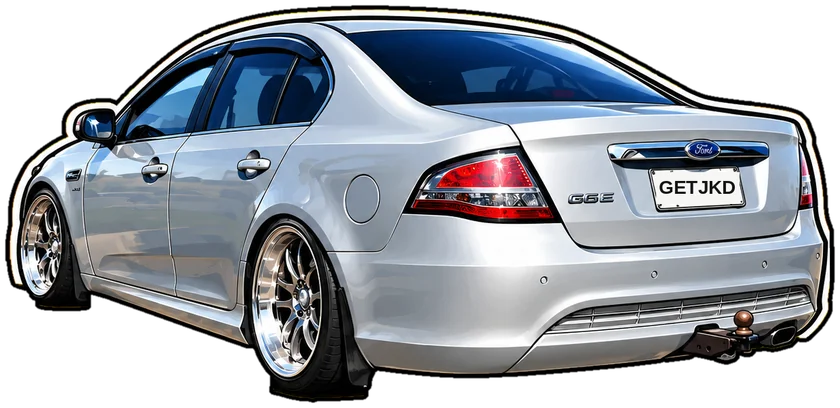
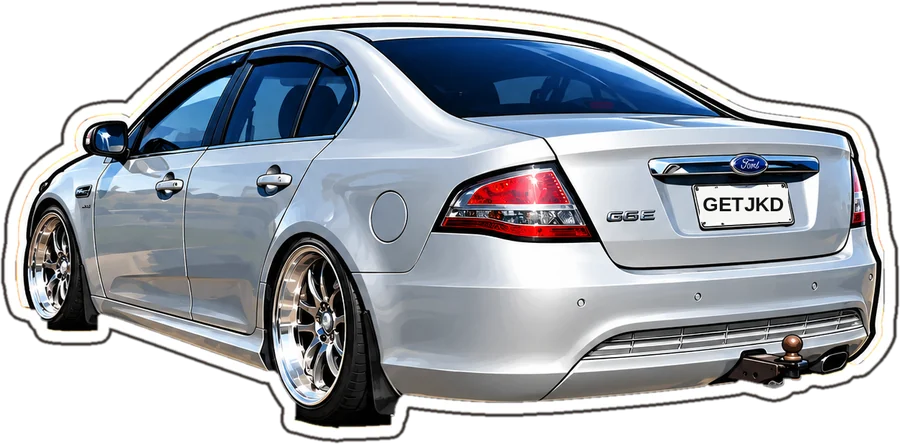
Laychan falcon theme, Today: car like the mockup (white sticker outline, full width with nose off the left and bumper to the right edge, from the top of the screen behind a floating sticky header pill, scrolls with the page, wheels tucked behind the first card), sunburst glow behind it (burst.webp v

diff --git a/laychan/sw.js b/laychan/sw.js
@@ -1,11 +1,11 @@
 // Get Jacked (Laychan) service worker: offline app shell + notification taps.
 // Generated by scripts/build-friends.mjs from the root app; do not edit, run `npm run build:friends`.
-const VERSION = "get-jacked-v10-laychan-falcon-2f26d5f0";
+const VERSION = "get-jacked-v10-laychan-falcon-b909bbd5";
 // Exercise photos (generated from images.js; tests check they match).
 const IMAGES = ["../img/ex-orange/assistdip.webp","../img/ex-orange/bandabd.webp","../img/ex-orange/bandbicurl.webp","../img/ex-orange/bandcurl.webp","../img/ex-orange/bandfly.webp","../img/ex-orange/bandgm.webp","../img/ex-orange/bandlat.webp","../img/ex-orange/bandpress.webp","../img/ex-orange/bandpulldown.webp","../img/ex-orange/bandpushdown.webp","../img/ex-orange/bandrow.webp","../img/ex-orange/bandsquat.webp","../img/ex-orange/bench.webp","../img/ex-orange/bss.webp","../img/ex-orange/bwcalf.webp","../img/ex-orange/bwpullup.webp","../img/ex-orange/bwsplit.webp","../img/ex-orange/cablecrunch.webp","../img/ex-orange/cablecurl.webp","../img/ex-orange/cablefly.webp","../img/ex-orange/cablekick.webp","../img/ex-orange/cablelat.webp","../img/ex-orange/cablerow.webp","../img/ex-orange/crunch.webp","../img/ex-orange/csrow.webp","../img/ex-orange/dbbench.webp","../img/ex-orange/dbcalf.webp","../img/ex-orange/dbcrunch.webp","../img/ex-orange/dbcurl.webp","../img/ex-orange/dbfly.webp","../img/ex-orange/dbhipthrust.webp","../img/ex-orange/dblunge.webp","../img/ex-orange/dbohtri.webp","../img/ex-orange/dbpullover.webp","../img/ex-orange/dbrdl.webp","../img/ex-orange/dbrearfly.webp","../img/ex-orange/dbrow.webp","../img/ex-orange/dbskull.webp","../img/ex-orange/deficitpushup.webp","../img/ex-orange/diamond.webp","../img/ex-orange/dip.webp","../img/ex-orange/ezcurl.webp","../img/ex-orange/facepull.webp","../img/ex-orange/gobletsq.webp","../img/ex-orange/hack.webp","../img/ex-orange/hammer.webp","../img/ex-orange/hipthrust.webp","../img/ex-orange/hlr.webp","../img/ex-orange/inclinecurl.webp","../img/ex-orange/inclinedb.webp","../img/ex-orange/invrow.webp","../img/ex-orange/latraise.webp","../img/ex-orange/leanlat.webp","../img/ex-orange/legext.webp","../img/ex-orange/legpress.webp","../img/ex-orange/lyingcurl.webp","../img/ex-orange/machlat.webp","../img/ex-orange/machpress.webp","../img/ex-orange/nordic.webp","../img/ex-orange/ohtri.webp","../img/ex-orange/pullapart.webp","../img/ex-orange/pulldown.webp","../img/ex-orange/pullup.webp","../img/ex-orange/pushdown.webp","../img/ex-orange/pushup.webp","../img/ex-orange/rdl.webp","../img/ex-orange/revcrunch.webp","../img/ex-orange/revfly.webp","../img/ex-orange/seatcalf.webp","../img/ex-orange/seatedcurl.webp","../img/ex-orange/sissy.webp","../img/ex-orange/skull.webp","../img/ex-orange/sldl.webp","../img/ex-orange/slhipthrust.webp","../img/ex-orange/slidercurl.webp","../img/ex-orange/slrdl.webp","../img/ex-orange/squat.webp","../img/ex-orange/standcalf.webp","../img/ex-orange/stepup.webp","../img/ex-orange/ytraise.webp"];
 const SHELL = [
   "./", "./index.html", "./user.js", "./manifest.webmanifest", "./icons/icon-192.png", "./icons/icon-512.png", "./icons/icon-maskable-192.png", "./icons/icon-maskable-512.png", "./icons/apple-touch-icon-180.png", "./icons/favicon-32.png", "./icons/favicon-48.png", "./icons/badge-96.png",
-  "../styles.css", "../app.js", "../calc.js", "../program.js", "../notify.js", "../state.js", "../images.js", "../media.js", "../stepper.js", "../config.js", "../themes/falcon/theme.css", "../themes/falcon/bg-today.webp", "../themes/falcon/bg-streaks.webp", "../themes/falcon/car.webp", "../themes/falcon/panel.webp",
+  "../styles.css", "../app.js", "../calc.js", "../program.js", "../notify.js", "../state.js", "../images.js", "../media.js", "../stepper.js", "../config.js", "../themes/falcon/theme.css", "../themes/falcon/bg-today.webp", "../themes/falcon/bg-streaks.webp", "../themes/falcon/car.webp", "../themes/falcon/burst.webp", "../themes/falcon/panel.webp",
   ...IMAGES,
 ];
 

diff --git a/themes/falcon/theme.css b/themes/falcon/theme.css
@@ -32,9 +32,14 @@ body.theme-falcon::before{content:"";position:fixed;inset:0;z-index:-1;backgroun
 
 /* ---------- Today ---------- */
 body.theme-falcon:has(#view > .card.hero #start)::before{background:#0a0a0a url(bg-today.webp) center top/cover no-repeat}
-body.theme-falcon:has(#view > .card.hero #start) .top{position:sticky;width:fit-content;margin:max(8px,env(safe-area-inset-top)) 0 0 12px;padding:6px 14px 6px 12px;border:0;border-radius:99px;background:#000c}
+/* header = floating dark pill over the car; stays sticky (with a gap above it) while the car scrolls away underneath */
+body.theme-falcon:has(#view > .card.hero #start) .top{position:sticky;top:max(8px,env(safe-area-inset-top));width:fit-content;height:44px;margin:max(8px,env(safe-area-inset-top)) 0 0 12px;padding:0 14px 0 12px;border:0;border-radius:99px;background:#000000d0;box-shadow:0 2px 12px #0007}
 .theme-falcon #view:has(> .card.hero #start) > h1{position:absolute;width:1px;height:1px;overflow:hidden;clip:rect(0 0 0 0);margin:0}
-.theme-falcon #view:has(> .card.hero #start)::before{content:"";display:block;position:relative;z-index:1;height:178px;margin:-46px -8px -30px;background:url(car.webp) center bottom/contain no-repeat;filter:drop-shadow(0 6px 10px #0009);pointer-events:none}
+/* car: part of the scrolling page top, from the very top of the screen (behind the status bar + header pill),
+   wider than the screen (nose + front wheel off the left, bumper to the right edge), sunburst behind it,
+   wheels tucked behind the first card's top edge */
+.theme-falcon #view:has(> .card.hero #start)::before{content:"";display:block;position:relative;z-index:0;height:calc(346px + max(0px, env(safe-area-inset-top) - 8px));margin:calc(-44px - max(8px, env(safe-area-inset-top))) -14px -172px;background:url(car.webp) left -16px bottom 120px/106% auto no-repeat,url(burst.webp) left -118px top -110px/680px auto no-repeat;pointer-events:none}
+.theme-falcon #view:has(> .card.hero #start) > .card{position:relative;z-index:1}
 .theme-falcon #view:has(> .card.hero #start){padding-top:0}
 .theme-falcon .card.hero{background:rgba(10,10,10,.88);padding:16px 16px 14px}
 .theme-falcon .hero .big{font-size:29px;line-height:1.2;margin:2px 0 4px}

diff --git a/themes/falcon/make-burst.py b/themes/falcon/make-burst.py
@@ -1,0 +1,33 @@
+# Sunburst glow behind Laychan's car on Today (themes/falcon/burst.webp): spiky yellow/orange rays + hot centre,
+# fading to transparent so it melts into the brush-stroke background. Run: python3 themes/falcon/make-burst.py
+import os, math, random
+import numpy as np
+from PIL import Image, ImageDraw, ImageFilter
+random.seed(7)
+W, H, S = 1000, 640, 2                      # draw at 2x then downsample for smooth edges
+cx, cy = W * 0.54 * S, H * 0.50 * S
+img = Image.new("RGBA", (W * S, H * S), (0, 0, 0, 0)); d = ImageDraw.Draw(img)
+d.ellipse((cx - W * S * .62, cy - H * S * .62, cx + W * S * .62, cy + H * S * .62), fill=(255, 112, 0, 255))  # orange base between the rays
+R = max(W, H) * S * 0.75
+n, a = 34, 0.0
+for i in range(n):
+    w = 2 * math.pi / n * random.uniform(0.35, 0.75)
+    L = R * random.uniform(0.55, 1.0)
+    ang = a + random.uniform(-0.04, 0.04); a += 2 * math.pi / n
+    pts = [(cx, cy), (cx + L * math.cos(ang - w / 2), cy + L * math.sin(ang - w / 2)), (cx + L * 1.08 * math.cos(ang), cy + L * 1.08 * math.sin(ang)), (cx + L * math.cos(ang + w / 2), cy + L * math.sin(ang + w / 2))]
+    col = random.choice([(255, 226, 20), (255, 204, 0), (255, 180, 0), (255, 240, 90)])
+    d.polygon(pts, fill=col + (255,))
+img = img.resize((W, H), Image.LANCZOS)
+glow = Image.new("RGBA", (W, H), (0, 0, 0, 0)); g = ImageDraw.Draw(glow)
+for r, c in [(330, (255, 150, 0, 90)), (240, (255, 200, 0, 150)), (150, (255, 240, 120, 230)), (90, (255, 252, 220, 255))]:
+    g.ellipse((W * .54 - r * 1.4, H * .5 - r, W * .54 + r * 1.4, H * .5 + r), fill=c)
+glow = glow.filter(ImageFilter.GaussianBlur(60))
+img = Image.alpha_composite(img, glow)
+# radial alpha fade to 0 at the edges
+yy, xx = np.mgrid[0:H, 0:W]
+dist = np.sqrt(((xx - W * .54) / (W * .5)) ** 2 + ((yy - H * .5) / (H * .5)) ** 2)
+fade = np.clip((1.0 - dist) / 0.5, 0, 1) ** 1.4  # fully transparent before the image edge
+arr = np.array(img).astype(float); arr[..., 3] *= fade
+out = os.path.join(os.path.dirname(os.path.abspath(__file__)), "burst.webp")
+Image.fromarray(arr.astype(np.uint8), "RGBA").save(out, "WEBP", quality=80, method=6)
+print("wrote", out)
